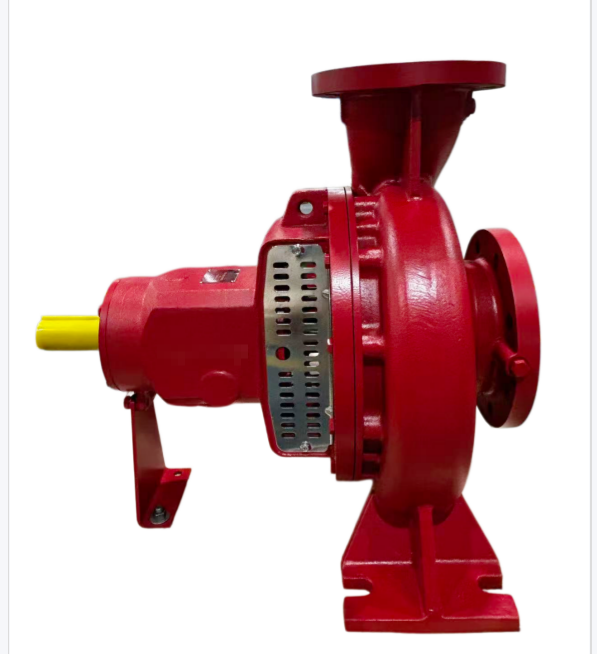
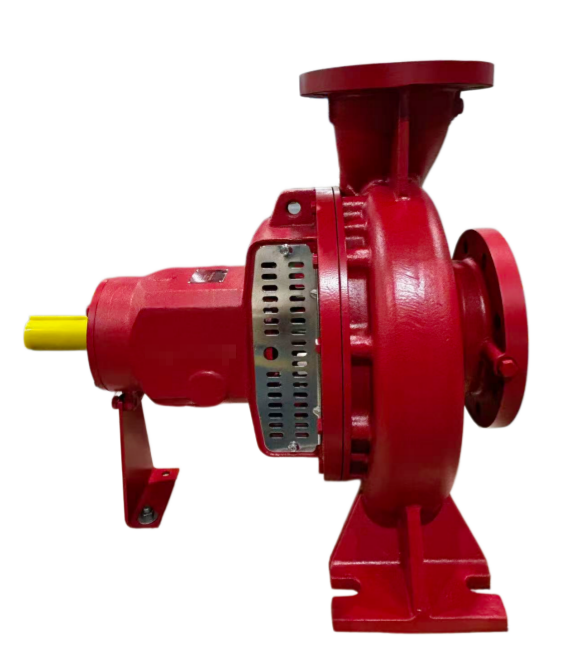
Show whole product photos; name supplier cards DAB Pumps and Eifel Pump
- Product and detail images use contain in square frames instead of
  cover, so wide photos are no longer cut off
- Eifel cards use single-pump photos instead of 3-up collages (removed);
  EHF photo trimmed of its grey edge lines
- UL logo badge no longer shrunk by the product image rule
- Supplier cards renamed from Water Pumps / Fire Pumps; assets v=10

diff --git a/products.html b/products.html
@@ -29,7 +29,7 @@
 <link rel="preconnect" href="https://fonts.googleapis.com" />
 <link rel="preconnect" href="https://fonts.gstatic.com" crossorigin />
 <link href="https://fonts.googleapis.com/css2?family=Inter:wght@400;500;600;700;800&display=swap" rel="stylesheet" />
-<link rel="stylesheet" href="assets/css/style.css?v=9" />
+<link rel="stylesheet" href="assets/css/style.css?v=10" />
 <script type="application/ld+json">
 {
   "@context": "https://schema.org",
@@ -46,7 +46,7 @@
   <div class="container nav" id="mainNav">
     <a href="index.html" class="brand">
       <span class="brand-mark">
-        <img src="assets/images/logo-icon.png?v=9" alt="Aquarise Agencies logo" />
+        <img src="assets/images/logo-icon.png?v=10" alt="Aquarise Agencies logo" />
       </span>
       <span>
         Aquarise
@@ -87,13 +87,13 @@
       <div class="supplier-options" id="supplierOptions">
         <div class="supplier-card dab" data-view="dab">
           <div class="sup-mark"><img src="assets/images/dab-logo.png" alt="DAB Pumps logo" /></div>
-          <h3>Water Pumps</h3>
+          <h3>DAB Pumps</h3>
           <p>Italian innovation since 1975. Multistage, booster, submersible, drainage, HVAC and pool pumps from DAB Pumps, including the ESYBOX electronic pressure sets.</p>
           <span class="count">Products</span>
         </div>
         <div class="supplier-card eifel" data-view="eifel">
           <div class="sup-mark"><img src="assets/images/eifel-logo.jpg" alt="Eifel Pump logo" /></div>
-          <h3>Fire Pumps</h3>
+          <h3>Eifel Pump</h3>
           <p>UL Listed fire pumps, plus jockey pumps, from Eifel Pump (Fuzhou) Corp. Ltd, approved by the CMC Fire Department for buildings up to 30&nbsp;m.</p>
           <span class="count">Products</span>
         </div>
@@ -148,7 +148,7 @@
     <div class="footer-grid">
       <div class="footer-brand">
         <a href="index.html" class="brand">
-          <span class="brand-mark"><img src="assets/images/logo-icon.png?v=9" alt="Aquarise Agencies logo" /></span>
+          <span class="brand-mark"><img src="assets/images/logo-icon.png?v=10" alt="Aquarise Agencies logo" /></span>
           <span>Aquarise</span>
         </a>
         <p>Delivering reliable pumping solutions for a sustainable future. Sole authorized
@@ -196,7 +196,7 @@
   </div>
 </footer>
 
-<script src="assets/js/products.js?v=9"></script>
-<script src="assets/js/main.js?v=9"></script>
+<script src="assets/js/products.js?v=10"></script>
+<script src="assets/js/main.js?v=10"></script>
 </body>
 </html>

diff --git a/assets/js/products.js b/assets/js/products.js
@@ -317,7 +317,7 @@ const EIFEL_BASE = "https://www.eifelcn.com/category/";
 const EIFEL_PRODUCTS_URL = "https://www.eifelcn.com/products";
 
 const EIFEL_CATEGORIES = [
-  { id: "fire-ul", label: "UL Listed Fire Pumps", img: "assets/images/eifel-collage-ehf.jpg", ul: true,
+  { id: "fire-ul", label: "UL Listed Fire Pumps", img: "assets/images/eifel-src/ehf2.png", ul: true,
     intro: "UL Listed EHF end suction and ESF split-case fire pumps built to UL 448 for NFPA 20 systems, with FDL jockey pumps for pressure maintenance." },
 ];
 
@@ -355,11 +355,11 @@ const EIFEL_SUBPRODUCTS = {
 };
 
 const EIFEL_PRODUCTS = [
-  { id: "ehf-series", name: "EHF Series", url: EIFEL_BASE + "ehf-series", cat: "fire-ul", img: "eifel-collage-ehf.jpg",
+  { id: "ehf-series", name: "EHF Series", url: EIFEL_BASE + "ehf-series", cat: "fire-ul", img: "eifel-src/ehf2.png",
     desc: "UL Listed heavy-duty horizontal end suction fire pumps, built with optimised hydraulics and ductile iron casings for high-rise buildings and industrial complexes." },
-  { id: "esf-series", name: "ESF Series", url: EIFEL_BASE + "esf-series", cat: "fire-ul", img: "eifel-collage-esf.jpg",
+  { id: "esf-series", name: "ESF Series", url: EIFEL_BASE + "esf-series", cat: "fire-ul", img: "eifel-src/esf2.png",
     desc: "UL Listed horizontal double-suction split-case fire pumps, designed to process high-flow emergency volumes with stable operation and low vibration." },
-  { id: "fdl-series", name: "FDL Series (Jockey Pumps)", url: EIFEL_BASE + "fdl-series", cat: "fire-ul", ulListed: false, img: "eifel-collage-fdl.jpg",
+  { id: "fdl-series", name: "FDL Series (Jockey Pumps)", url: EIFEL_BASE + "fdl-series", cat: "fire-ul", ulListed: false, img: "eifel-src/fdl1.jpg",
     desc: "Vertical multistage jockey pumps that maintain pressure in sprinkler mains alongside the UL Listed fire pumps. FDL pumps are not UL Listed." },
 ].map(p => ({
   ...p,

diff --git a/partners.html b/partners.html
@@ -29,7 +29,7 @@
 <link rel="preconnect" href="https://fonts.googleapis.com" />
 <link rel="preconnect" href="https://fonts.gstatic.com" crossorigin />
 <link href="https://fonts.googleapis.com/css2?family=Inter:wght@400;500;600;700;800&display=swap" rel="stylesheet" />
-<link rel="stylesheet" href="assets/css/style.css?v=9" />
+<link rel="stylesheet" href="assets/css/style.css?v=10" />
 <script type="application/ld+json">
 {
   "@context": "https://schema.org",
@@ -46,7 +46,7 @@
   <div class="container nav" id="mainNav">
     <a href="index.html" class="brand">
       <span class="brand-mark">
-        <img src="assets/images/logo-icon.png?v=9" alt="Aquarise Agencies logo" />
+        <img src="assets/images/logo-icon.png?v=10" alt="Aquarise Agencies logo" />
       </span>
       <span>
         Aquarise
@@ -207,7 +207,7 @@
     <div class="footer-grid">
       <div class="footer-brand">
         <a href="index.html" class="brand">
-          <span class="brand-mark"><img src="assets/images/logo-icon.png?v=9" alt="Aquarise Agencies logo" /></span>
+          <span class="brand-mark"><img src="assets/images/logo-icon.png?v=10" alt="Aquarise Agencies logo" /></span>
           <span>Aquarise</span>
         </a>
         <p>Delivering reliable pumping solutions for a sustainable future. Sole authorized
@@ -255,7 +255,7 @@
   </div>
 </footer>
 
-<script src="assets/js/products.js?v=9"></script>
-<script src="assets/js/main.js?v=9"></script>
+<script src="assets/js/products.js?v=10"></script>
+<script src="assets/js/main.js?v=10"></script>
 </body>
 </html>

diff --git a/index.html b/index.html
@@ -29,7 +29,7 @@
 <link rel="preconnect" href="https://fonts.googleapis.com" />
 <link rel="preconnect" href="https://fonts.gstatic.com" crossorigin />
 <link href="https://fonts.googleapis.com/css2?family=Inter:wght@400;500;600;700;800&display=swap" rel="stylesheet" />
-<link rel="stylesheet" href="assets/css/style.css?v=9" />
+<link rel="stylesheet" href="assets/css/style.css?v=10" />
 <script type="application/ld+json">
 {
   "@context": "https://schema.org",
@@ -81,7 +81,7 @@
   <div class="container nav" id="mainNav">
     <a href="#top" class="brand">
       <span class="brand-mark">
-        <img src="assets/images/logo-icon.png?v=9" alt="Aquarise Agencies logo" />
+        <img src="assets/images/logo-icon.png?v=10" alt="Aquarise Agencies logo" />
       </span>
       <span>
         Aquarise
@@ -352,7 +352,7 @@
     <div class="footer-grid">
       <div class="footer-brand">
         <a href="#top" class="brand">
-          <span class="brand-mark"><img src="assets/images/logo-icon.png?v=9" alt="Aquarise Agencies logo" /></span>
+          <span class="brand-mark"><img src="assets/images/logo-icon.png?v=10" alt="Aquarise Agencies logo" /></span>
           <span>Aquarise</span>
         </a>
         <p>Delivering reliable pumping solutions for a sustainable future. Sole authorized
@@ -401,7 +401,7 @@
   </div>
 </footer>
 
-<script src="assets/js/products.js?v=9"></script>
-<script src="assets/js/main.js?v=9"></script>
+<script src="assets/js/products.js?v=10"></script>
+<script src="assets/js/main.js?v=10"></script>
 </body>
 </html>

diff --git a/product.html b/product.html
@@ -29,7 +29,7 @@
 <link rel="preconnect" href="https://fonts.googleapis.com" />
 <link rel="preconnect" href="https://fonts.gstatic.com" crossorigin />
 <link href="https://fonts.googleapis.com/css2?family=Inter:wght@400;500;600;700;800&display=swap" rel="stylesheet" />
-<link rel="stylesheet" href="assets/css/style.css?v=9" />
+<link rel="stylesheet" href="assets/css/style.css?v=10" />
 </head>
 <body>
 
@@ -37,7 +37,7 @@
   <div class="container nav" id="mainNav">
     <a href="index.html" class="brand">
       <span class="brand-mark">
-        <img src="assets/images/logo-icon.png?v=9" alt="Aquarise Agencies logo" />
+        <img src="assets/images/logo-icon.png?v=10" alt="Aquarise Agencies logo" />
       </span>
       <span>
         Aquarise
@@ -138,7 +138,7 @@
     <div class="footer-grid">
       <div class="footer-brand">
         <a href="index.html" class="brand">
-          <span class="brand-mark"><img src="assets/images/logo-icon.png?v=9" alt="Aquarise Agencies logo" /></span>
+          <span class="brand-mark"><img src="assets/images/logo-icon.png?v=10" alt="Aquarise Agencies logo" /></span>
           <span>Aquarise</span>
         </a>
         <p>Delivering reliable pumping solutions for a sustainable future. Sole authorized
@@ -186,7 +186,7 @@
   </div>
 </footer>
 
-<script src="assets/js/products.js?v=9"></script>
-<script src="assets/js/main.js?v=9"></script>
+<script src="assets/js/products.js?v=10"></script>
+<script src="assets/js/main.js?v=10"></script>
 </body>
 </html>

diff --git a/assets/css/style.css b/assets/css/style.css
@@ -312,10 +312,11 @@ section{padding:88px 0;}
 .product-card-link{display:block;color:inherit;text-decoration:none;}
 .product-card.highlight{border-color:var(--accent);box-shadow:0 0 0 4px rgba(8,170,215,.2), var(--shadow-lg);}
 .product-media{
-  position:relative;aspect-ratio:4/3;border-radius:10px;background:var(--gray-light);overflow:hidden;
+  position:relative;aspect-ratio:1/1;border-radius:10px;background:var(--gray-light);overflow:hidden;
   display:flex;align-items:center;justify-content:center;margin:-4px -4px 16px;
 }
-.product-media img{width:100%;height:100%;object-fit:cover;}
+.product-media{background:#fff;}
+.product-media > img{width:100%;height:100%;object-fit:contain;padding:8px;}
 .product-media.img-fallback{
   background:linear-gradient(135deg,var(--accent-light),var(--gray-light));
 }
@@ -448,7 +449,8 @@ section{padding:88px 0;}
   display:flex;align-items:center;justify-content:center;box-shadow:var(--shadow-lg);
   border:1px solid rgba(0,28,82,.08);position:sticky;top:100px;
 }
-.detail-media img{width:100%;height:100%;object-fit:cover;}
+.detail-media{background:#fff;}
+.detail-media > img{width:100%;height:100%;object-fit:contain;padding:24px;}
 .detail-media.img-fallback{background:linear-gradient(135deg,var(--accent-light),var(--gray-light));}
 .detail-media.img-fallback::after{
   content:"";width:88px;height:88px;
